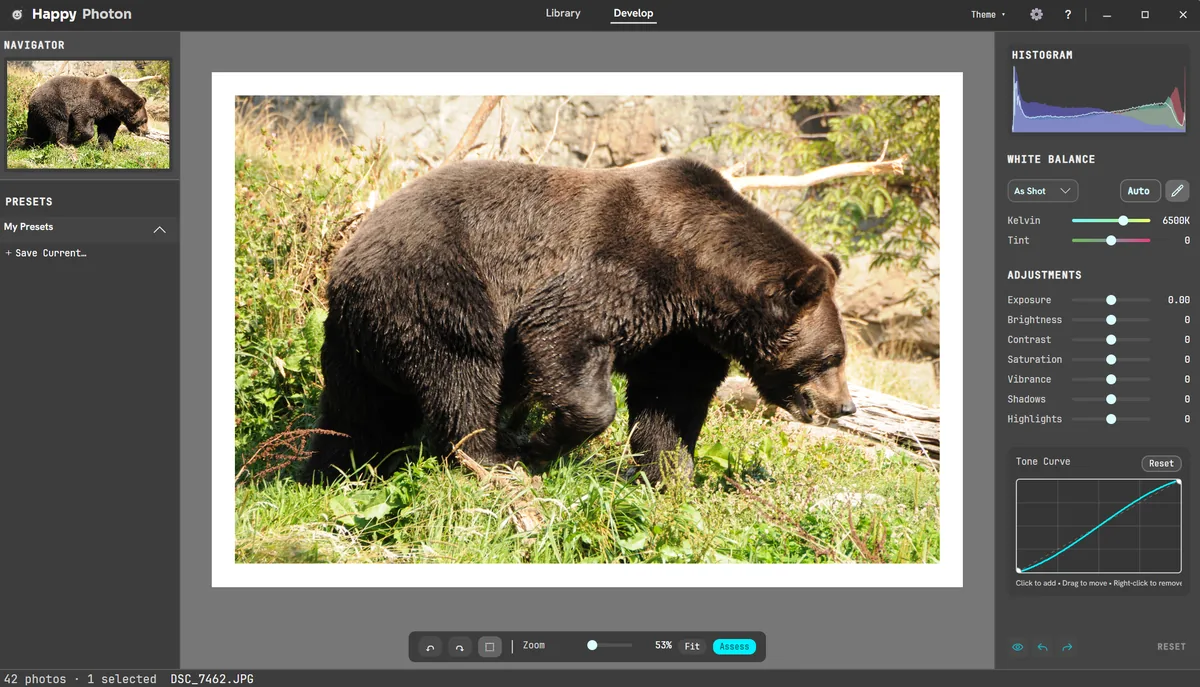
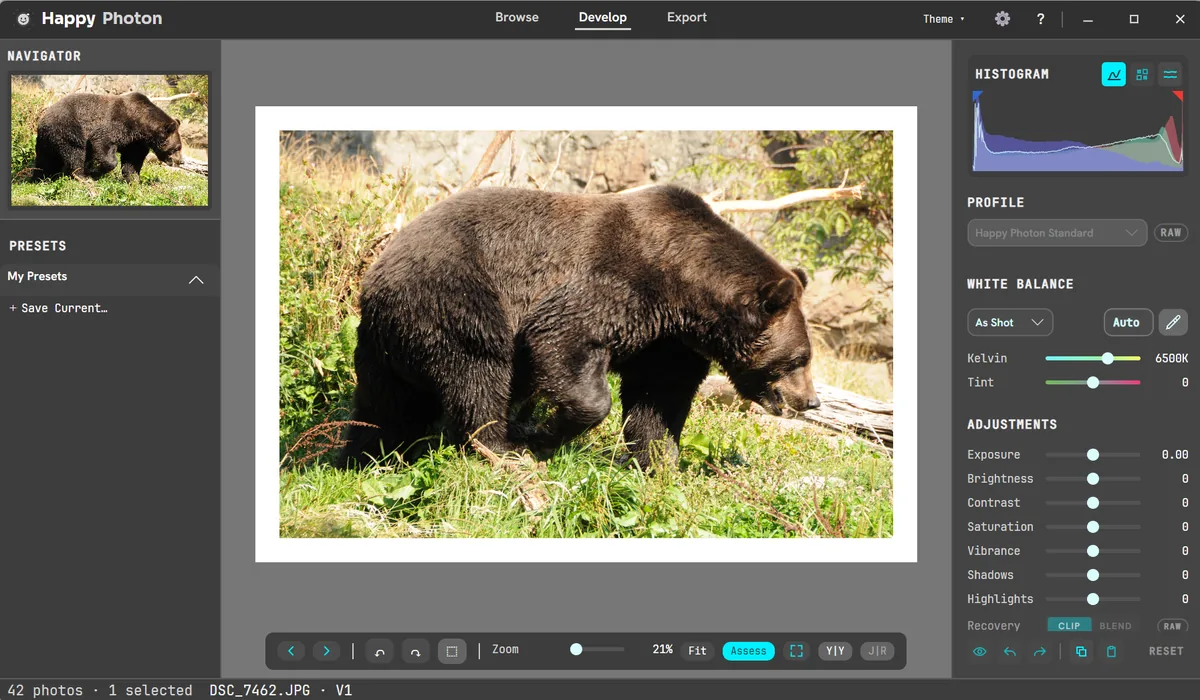
Showcase the 0.2.1 workspaces and features on the website

diff --git a/site/pages/pro-editing.html b/site/pages/pro-editing.html
@@ -32,7 +32,7 @@
         <div class="window-bar" aria-hidden="true"><span></span><span></span><span></span><b>DEVELOP</b></div>
         <picture>
           <source srcset="{{BASE_PATH}}assets/images/develop-720.webp 720w, {{BASE_PATH}}assets/images/develop-1200.webp 1200w, {{BASE_PATH}}assets/images/develop-1800.webp 1800w" sizes="(max-width: 900px) 94vw, 1240px" type="image/webp">
-          <img src="{{BASE_PATH}}assets/images/develop-1200.webp" width="1200" height="715" alt="Happy Photon Develop showing a photograph, presets, histogram, tone curve, and focused adjustment controls">
+          <img src="{{BASE_PATH}}assets/images/develop-1200.webp" width="1200" height="686" alt="Happy Photon Develop showing a photograph, presets, histogram, tone curve, and focused adjustment controls">
         </picture>
       </figure>
     </section>
@@ -54,7 +54,7 @@
       </div>
       <ol class="pro-pipeline">
         <li><span>01</span><b>Characterize</b><p>Measured as-shot white balance, built-in camera characterization, and DCP profiles when available.</p></li>
-        <li><span>02</span><b>Form the image</b><p>Highlight reconstruction and a scene-referred AgX tone engine shape RAW data without a baked-in picture style.</p></li>
+        <li><span>02</span><b>Form the image</b><p>Lens corrections, highlight reconstruction, and a scene-referred AgX tone engine shape RAW data without a baked-in picture style.</p></li>
         <li><span>03</span><b>Shape color</b><p>White balance, color mixer, saturation, and skin-aware vibrance operate through a wide-gamut perceptual color stage.</p></li>
         <li><span>04</span><b>Finish detail</b><p>Capture sharpening, noise reduction, output sharpening, vignette, and deterministic grain resolve at the right stage.</p></li>
         <li><span>05</span><b>Deliver</b><p>The result converts to an embedded sRGB or Display P3 profile and carries normalized metadata under your control.</p></li>
@@ -81,12 +81,12 @@
           <article class="pro-card">
             <span class="pro-card-index">DETAIL</span>
             <h3>Separate capture from delivery</h3>
-            <p>Apply source-aware capture sharpening, chroma noise reduction, and RAW noise reduction. Choose independent Screen or Print sharpening when you export.</p>
+            <p>Apply source-aware capture sharpening, wavelet luminance noise reduction, chroma noise reduction, and RAW noise reduction. Choose independent Screen or Print sharpening when you export.</p>
           </article>
           <article class="pro-card">
             <span class="pro-card-index">FINISH</span>
             <h3>Make the frame feel complete</h3>
-            <p>Crop, rotate, and straighten the horizon. Add a controlled vignette or deterministic monochrome grain that stays stable from preview to finished output.</p>
+            <p>Crop, rotate, straighten the horizon, and correct vertical and horizontal perspective against an alignment grid. Add a controlled vignette or deterministic monochrome grain that stays stable from preview to finished output.</p>
           </article>
         </div>
       </div>
@@ -96,13 +96,15 @@
       <div class="pro-scope-copy">
         <p class="eyebrow">MEASURE WHAT YOU SEE</p>
         <h2 id="scope-title">Scopes for decisions, <span>not decoration.</span></h2>
-        <p>Read the display histogram, luminance waveform, or RAW sensor histogram. Toggle highlight and shadow clipping, inspect before and after, zoom in device pixels, or enter Assess mode for an invariant mid-gray surround and white reference.</p>
+        <p>Read the display histogram, luminance waveform, or RAW sensor histogram. Toggle highlight and shadow clipping, inspect before and after in a synchronized split, press and hold for a 1:1 loupe, zoom in device pixels, or enter Assess mode for an invariant mid-gray surround and white reference.</p>
         <ul class="pro-chip-list" aria-label="Available viewing tools">
           <li>Display histogram</li>
           <li>Luminance waveform</li>
           <li>RAW sensor histogram</li>
           <li>Clipping overlays</li>
-          <li>Before / after</li>
+          <li>Before / after split</li>
+          <li>1:1 loupe</li>
+          <li>Side-by-side compare</li>
           <li>Assess mode</li>
         </ul>
       </div>
@@ -110,7 +112,7 @@
         <div class="window-bar" aria-hidden="true"><span></span><span></span><span></span><b>ASSESS</b></div>
         <picture>
           <source srcset="{{BASE_PATH}}assets/images/assess-720.webp 720w, {{BASE_PATH}}assets/images/assess-1200.webp 1200w, {{BASE_PATH}}assets/images/assess-1800.webp 1800w" sizes="(max-width: 980px) 94vw, 54vw" type="image/webp">
-          <img src="{{BASE_PATH}}assets/images/assess-1200.webp" width="1200" height="715" loading="lazy" alt="Happy Photon Assess mode showing a photograph against a stable mid-gray surround and white reference band">
+          <img src="{{BASE_PATH}}assets/images/assess-1200.webp" width="1200" height="700" loading="lazy" alt="Happy Photon Assess mode showing a bear photograph against a stable mid-gray surround and white reference border">
         </picture>
       </figure>
     </section>
@@ -120,12 +122,12 @@
         <div>
           <p class="eyebrow">RAW IS A FIRST-CLASS SOURCE</p>
           <h2 id="raw-title">Camera data gets a <span>photographic path.</span></h2>
-          <p>Happy Photon starts from the sensor and builds the image deliberately: measured as-shot white balance, highlight reconstruction, camera characterization, optional DCP profiles, and true monochrome RAW handling.</p>
+          <p>Happy Photon starts from the sensor and builds the image deliberately: measured as-shot white balance, highlight reconstruction, camera characterization, optional DCP profiles, database and embedded lens corrections, and true monochrome RAW handling.</p>
         </div>
         <ul class="pro-feature-list">
           <li><b>Scene-referred rendering</b><span>AgX maps RAW scene values into a display-ready photograph.</span></li>
           <li><b>Camera profiles</b><span>Use discovered DCP profiles when a compatible profile is available.</span></li>
-          <li><b>Embedded lens data</b><span>Apply qualified DNG and Fujifilm RAF lens corrections where supported.</span></li>
+          <li><b>Lens corrections</b><span>Apply embedded DNG and Fujifilm RAF prescriptions or an exact camera and lens match from the bundled Lensfun database.</span></li>
           <li><b>True monochrome</b><span>Keep monochrome sensor data neutral through preview and export.</span></li>
         </ul>
       </div>

diff --git a/site/pages/photo-editor-linux.html b/site/pages/photo-editor-linux.html
@@ -21,7 +21,7 @@
         <dl class="guide-facts" aria-label="Linux requirements">
           <div><dt>System</dt><dd>Linux desktop</dd></div>
           <div><dt>Architecture</dt><dd>x64</dd></div>
-          <div><dt>Package</dt><dd>Portable archive</dd></div>
+          <div><dt>Package</dt><dd>AppImage or portable archive</dd></div>
         </dl>
       </div>
     </section>
@@ -52,22 +52,22 @@
 
         <section id="install" aria-labelledby="install-title">
           <p class="eyebrow">INSTALL ON LINUX</p>
-          <h2 id="install-title">Run the portable x64 release</h2>
+          <h2 id="install-title">Run the x64 AppImage</h2>
           <ol class="numbered-steps">
-            <li><span>01</span><div><h3>Download the Linux archive</h3><p>Choose the current <code>linux-x64</code> archive from the verified GitHub release linked on the download page.</p></div></li>
-            <li><span>02</span><div><h3>Verify and extract it</h3><p>Compare the archive with <code>SHA256SUMS.txt</code>, then extract it to a folder you control.</p></div></li>
-            <li><span>03</span><div><h3>Run Happy Photon</h3><p>Launch the <code>HappyPhoton</code> executable and choose an existing folder of photographs. The release is portable rather than a native distribution package.</p></div></li>
+            <li><span>01</span><div><h3>Download the AppImage</h3><p>Choose the current x86_64 AppImage from the verified GitHub release linked on the download page, or the <code>linux-x64</code> archive if you prefer a plain folder.</p></div></li>
+            <li><span>02</span><div><h3>Verify and make it executable</h3><p>Compare the file with <code>SHA256SUMS.txt</code>, then mark the AppImage executable with <code>chmod +x</code>, or extract the archive to a folder you control.</p></div></li>
+            <li><span>03</span><div><h3>Run Happy Photon</h3><p>Launch the AppImage, or the <code>HappyPhoton</code> executable from the archive, and choose an existing folder of photographs. The AppImage runtime is statically linked, so no <code>libfuse2</code> package is needed; on a system without FUSE, run it with <code>--appimage-extract-and-run</code>.</p></div></li>
           </ol>
-          <aside class="notice-panel"><strong>Current packaging boundary.</strong><p>The initial Linux release does not provide native package-manager or desktop integration. The project publishes one verified x64 portable archive and invites specific compatibility reports.</p></aside>
+          <aside class="notice-panel"><strong>Current packaging boundary.</strong><p>Desktop integration is limited to the AppImage's own desktop entry and icon; there is no Flatpak or package-manager installation. The project invites specific compatibility reports.</p></aside>
         </section>
 
         <section id="workflow" aria-labelledby="workflow-guide-title">
           <p class="eyebrow">FOLDER TO EXPORT</p>
           <h2 id="workflow-guide-title">Finish a shoot in three decisions</h2>
           <div class="guide-step-grid">
-            <article><span>01</span><h3>Choose the keepers</h3><p>Browse the folder in place, group bursts, and use picks, rejects, ratings, color labels, and filters to find the strongest frames.</p></article>
-            <article><span>02</span><h3>Develop the photographs</h3><p>Crop, rotate, and adjust light, white balance, color, contrast, and tone without modifying the source file.</p></article>
-            <article><span>03</span><h3>Export what you need</h3><p>Create new JPEG, PNG, or WebP files in high-resolution, web, or smaller output sizes.</p></article>
+            <article><span>01</span><h3>Choose the keepers</h3><p>Browse the folder in place, compare candidates side by side, group bursts, and use picks, rejects, ratings, color labels, and filters to find the strongest frames.</p></article>
+            <article><span>02</span><h3>Develop the photographs</h3><p>Crop, straighten, correct perspective, and adjust light, white balance, color, contrast, tone, and detail without modifying the source file.</p></article>
+            <article><span>03</span><h3>Export what you need</h3><p>Proof the output, then create new JPEG, PNG, WebP, or 16-bit TIFF files in high-resolution, web, or smaller output sizes.</p></article>
           </div>
           <p><a class="text-link" href="{{REPOSITORY_URL}}/blob/main/docs/WORKFLOW.md">Follow the complete Happy Photon workflow <span aria-hidden="true">↗</span></a></p>
         </section>
@@ -97,7 +97,7 @@
           <h2 id="questions-title">Before you download</h2>
           <div class="faq-list">
             <details><summary>Is Happy Photon open source?</summary><p>Yes. Happy Photon is licensed GPL-3.0-or-later. The repository includes source code, build instructions, dependency notices, and the contribution process.</p></details>
-            <details><summary>Does the Linux release install system packages?</summary><p>No. The initial release is a portable archive, not a native package-manager installation.</p></details>
+            <details><summary>Does the Linux release install system packages?</summary><p>No. The AppImage and the portable archive run from wherever you put them; nothing is installed through a package manager.</p></details>
             <details><summary>Can I report my camera or distribution?</summary><p>Yes. Use the project’s GitHub issue forms for a reproducible compatibility failure and Discussions for broader workflow or packaging feedback.</p></details>
           </div>
         </section>

diff --git a/site/pages/photo-editor-macos.html b/site/pages/photo-editor-macos.html
@@ -26,12 +26,12 @@
       </div>
     </section>
 
-    <section class="guide-visual section-shell" aria-label="Happy Photon Library preview">
+    <section class="guide-visual section-shell" aria-label="Happy Photon Browse preview">
       <figure class="app-shot">
-        <div class="window-bar" aria-hidden="true"><span></span><span></span><span></span><b>LIBRARY · MACOS</b></div>
+        <div class="window-bar" aria-hidden="true"><span></span><span></span><span></span><b>BROWSE · MACOS</b></div>
         <picture>
-          <source srcset="{{BASE_PATH}}assets/images/library-720.webp 720w, {{BASE_PATH}}assets/images/library-1200.webp 1200w, {{BASE_PATH}}assets/images/library-1800.webp 1800w" sizes="(max-width: 760px) 94vw, (max-width: 1300px) 92vw, 1220px" type="image/webp">
-          <img src="{{BASE_PATH}}assets/images/library-1200.webp" width="1200" height="714" alt="Happy Photon Library on macOS showing wildlife thumbnails with folders, filters, color labels, flags, ratings, burst badges, and the review pane">
+          <source srcset="{{BASE_PATH}}assets/images/browse-720.webp 720w, {{BASE_PATH}}assets/images/browse-1200.webp 1200w, {{BASE_PATH}}assets/images/browse-1800.webp 1800w" sizes="(max-width: 760px) 94vw, (max-width: 1300px) 92vw, 1220px" type="image/webp">
+          <img src="{{BASE_PATH}}assets/images/browse-1200.webp" width="1200" height="687" alt="Happy Photon Browse on macOS showing wildlife thumbnails with folders, filters, color labels, flags, ratings, histogram, and capture metadata">
         </picture>
       </figure>
     </section>
@@ -64,9 +64,9 @@
           <p class="eyebrow">FOLDER TO EXPORT</p>
           <h2 id="workflow-guide-title">A complete workflow in three decisions</h2>
           <div class="guide-step-grid">
-            <article><span>01</span><h3>Choose the keepers</h3><p>Browse the shoot in place, group bursts, and use flags, ratings, color labels, and filters to concentrate on the strongest photographs.</p></article>
-            <article><span>02</span><h3>Develop the photographs</h3><p>Crop and rotate, then adjust light, white balance, color, contrast, and tone with focused global controls.</p></article>
-            <article><span>03</span><h3>Export finished copies</h3><p>Select the photographs you want and create JPEG, PNG, or WebP copies without changing the originals.</p></article>
+            <article><span>01</span><h3>Choose the keepers</h3><p>Browse the shoot in place, compare candidates side by side, group bursts, and use flags, ratings, color labels, and filters to concentrate on the strongest photographs.</p></article>
+            <article><span>02</span><h3>Develop the photographs</h3><p>Crop, straighten, and correct perspective, then adjust light, white balance, color, contrast, tone, and detail with focused global controls.</p></article>
+            <article><span>03</span><h3>Export finished copies</h3><p>Select the photographs you want, proof the output, and create JPEG, PNG, WebP, or 16-bit TIFF copies without changing the originals.</p></article>
           </div>
           <p><a class="text-link" href="{{REPOSITORY_URL}}/blob/main/docs/WORKFLOW.md">Follow the complete Happy Photon workflow <span aria-hidden="true">↗</span></a></p>
         </section>
@@ -113,7 +113,7 @@
       <div class="section-shell">
         <p class="eyebrow">RELATED GUIDES</p>
         <h2 id="related-title">Continue with Happy Photon</h2>
-        <div class="related-guide-links"><a href="{{BASE_PATH}}photo-editor-windows/"><b>Windows guide</b><span>Windows 10 1809+ · x64</span></a><a href="{{BASE_PATH}}photo-editor-linux/"><b>Linux guide</b><span>Portable x64 archive</span></a><a href="{{BASE_PATH}}import-from-lightroom/"><b>Import from Lightroom</b><span>Ratings, flags, and color labels</span></a></div>
+        <div class="related-guide-links"><a href="{{BASE_PATH}}photo-editor-windows/"><b>Windows guide</b><span>Windows 10 1809+ · x64</span></a><a href="{{BASE_PATH}}photo-editor-linux/"><b>Linux guide</b><span>AppImage · x64</span></a><a href="{{BASE_PATH}}import-from-lightroom/"><b>Import from Lightroom</b><span>Ratings, flags, and color labels</span></a></div>
       </div>
     </section>
   </main>

diff --git a/site/pages/photo-editor-windows.html b/site/pages/photo-editor-windows.html
@@ -26,12 +26,12 @@
       </div>
     </section>
 
-    <section class="guide-visual section-shell" aria-label="Happy Photon Library preview">
+    <section class="guide-visual section-shell" aria-label="Happy Photon Browse preview">
       <figure class="app-shot">
-        <div class="window-bar" aria-hidden="true"><span></span><span></span><span></span><b>LIBRARY · WINDOWS</b></div>
+        <div class="window-bar" aria-hidden="true"><span></span><span></span><span></span><b>BROWSE · WINDOWS</b></div>
         <picture>
-          <source srcset="{{BASE_PATH}}assets/images/library-720.webp 720w, {{BASE_PATH}}assets/images/library-1200.webp 1200w, {{BASE_PATH}}assets/images/library-1800.webp 1800w" sizes="(max-width: 760px) 94vw, (max-width: 1300px) 92vw, 1220px" type="image/webp">
-          <img src="{{BASE_PATH}}assets/images/library-1200.webp" width="1200" height="714" alt="Happy Photon Library on Windows showing wildlife thumbnails with filters, color labels, flags, ratings, burst badges, and the review pane">
+          <source srcset="{{BASE_PATH}}assets/images/browse-720.webp 720w, {{BASE_PATH}}assets/images/browse-1200.webp 1200w, {{BASE_PATH}}assets/images/browse-1800.webp 1800w" sizes="(max-width: 760px) 94vw, (max-width: 1300px) 92vw, 1220px" type="image/webp">
+          <img src="{{BASE_PATH}}assets/images/browse-1200.webp" width="1200" height="687" alt="Happy Photon Browse on Windows showing wildlife thumbnails with filters, color labels, flags, ratings, histogram, and capture metadata">
         </picture>
       </figure>
     </section>
@@ -64,9 +64,9 @@
           <p class="eyebrow">FOLDER TO EXPORT</p>
           <h2 id="workflow-guide-title">Three decisions finish a shoot</h2>
           <div class="guide-step-grid">
-            <article><span>01</span><h3>Choose the keepers</h3><p>Use flags, star ratings, color labels, filters, and burst grouping to reduce a folder to the photographs that matter.</p></article>
-            <article><span>02</span><h3>Develop the photographs</h3><p>Crop and rotate, then shape exposure, highlights, shadows, white balance, color, and tone.</p></article>
-            <article><span>03</span><h3>Export finished copies</h3><p>Select the finished photographs and create JPEG, PNG, or WebP copies at the size you need.</p></article>
+            <article><span>01</span><h3>Choose the keepers</h3><p>Compare candidates side by side, then use flags, star ratings, color labels, filters, and burst grouping to reduce a folder to the photographs that matter.</p></article>
+            <article><span>02</span><h3>Develop the photographs</h3><p>Crop, straighten, and correct perspective, then shape exposure, highlights, shadows, white balance, color, tone, and detail.</p></article>
+            <article><span>03</span><h3>Export finished copies</h3><p>Select the finished photographs, proof the output, and create JPEG, PNG, WebP, or 16-bit TIFF copies at the size you need.</p></article>
           </div>
           <p><a class="text-link" href="{{REPOSITORY_URL}}/blob/main/docs/WORKFLOW.md">Follow the complete Happy Photon workflow <span aria-hidden="true">↗</span></a></p>
         </section>
@@ -114,7 +114,7 @@
       <div class="section-shell">
         <p class="eyebrow">RELATED GUIDES</p>
         <h2 id="related-title">Continue with Happy Photon</h2>
-        <div class="related-guide-links"><a href="{{BASE_PATH}}photo-editor-linux/"><b>Linux guide</b><span>Portable x64 archive</span></a><a href="{{BASE_PATH}}photo-editor-macos/"><b>macOS guide</b><span>Apple Silicon · macOS 14+</span></a><a href="{{BASE_PATH}}import-from-lightroom/"><b>Import from Lightroom</b><span>Ratings, flags, and color labels</span></a></div>
+        <div class="related-guide-links"><a href="{{BASE_PATH}}photo-editor-linux/"><b>Linux guide</b><span>AppImage · x64</span></a><a href="{{BASE_PATH}}photo-editor-macos/"><b>macOS guide</b><span>Apple Silicon · macOS 14+</span></a><a href="{{BASE_PATH}}import-from-lightroom/"><b>Import from Lightroom</b><span>Ratings, flags, and color labels</span></a></div>
       </div>
     </section>
   </main>

diff --git a/site/partials/home/updates-strip.html b/site/partials/home/updates-strip.html
@@ -1,21 +1,21 @@
 <section class="section updates-section" aria-labelledby="updates-title">
   <div class="section-shell updates-grid">
     <div class="updates-copy">
-      <p class="eyebrow">A MORE CONNECTED REVIEW WORKFLOW</p>
-      <h2 id="updates-title">Bring your decisions with you. <span>Judge each frame clearly.</span></h2>
+      <p class="eyebrow">NEW IN HAPPY PHOTON 0.2.1</p>
+      <h2 id="updates-title">Judge more clearly. <span>Deliver more precisely.</span></h2>
       <div class="updates-list">
-        <article><h3>Coming from Lightroom Classic?</h3><p>An optional import brings your ratings, pick and reject flags, and color labels over from a local catalog. Opt-in XMP sidecars exchange assessments with standard Adobe metadata.</p><a class="text-link" href="{{BASE_PATH}}import-from-lightroom/">Read the Lightroom import guide <span aria-hidden="true">→</span></a></article>
-        <article><h3>Review around the selection</h3><p>Use selection-aware Library actions, a dedicated review pane, and selection-only full screen to compare the photographs that matter.</p></article>
-        <article><h3>Assess color on neutral ground</h3><p>Choose the Middle Gray theme, then enter color assessment mode for a stable mid-gray surround and white reference.</p></article>
-        <article><h3>Keep cloud originals in your control</h3><p>Background work never silently downloads online-only originals. A clearly scoped action asks before source content is needed.</p></article>
+        <article><h3>An Export workspace</h3><p>Export is a full workspace beside Browse and Develop: a filmstrip of the selected captures, a preview that proofs the output pixels, and a queue that keeps running while you move on.</p></article>
+        <article><h3>RAW + JPEG as one capture</h3><p>Turn on J+R to fold a same-name pair into one tile that is flagged, rated, and labeled together. In Develop, J|R switches between the camera JPEG and the RAW without losing your place.</p></article>
+        <article><h3>Versions, compare, and before/after</h3><p>Keep up to eight interpretations of one file. Compare two to four photos side by side in Browse, split before and after in Develop, and press and hold for an instant 1:1 loupe—all synchronized.</p></article>
+        <article><h3>Lens corrections from a real database</h3><p>RAW files matched in the bundled Lensfun database receive distortion, chromatic aberration, and vignetting corrections alongside embedded prescriptions. Nikon lens identities are recovered from maker notes.</p></article>
       </div>
-      <p class="updates-polish">A compact filter bar and S/M/L thumbnails make Library denser, while clearer focus, selection, activity, and update-check feedback keep the workflow predictable.</p>
+      <p class="updates-polish">Also new: vertical and horizontal perspective with an alignment grid, wavelet luminance noise reduction, right-click copy path, reveal, and delete in Browse, a Linux AppImage, and a visible control for every keyboard shortcut.</p>
     </div>
     <figure class="app-shot updates-shot">
       <div class="window-bar" aria-hidden="true"><span></span><span></span><span></span><b>COLOR ASSESSMENT</b></div>
       <picture>
         <source srcset="{{BASE_PATH}}assets/images/assess-720.webp 720w, {{BASE_PATH}}assets/images/assess-1200.webp 1200w, {{BASE_PATH}}assets/images/assess-1800.webp 1800w" sizes="(max-width: 980px) 94vw, 52vw" type="image/webp">
-        <img src="{{BASE_PATH}}assets/images/assess-1200.webp" width="1200" height="687" loading="lazy" alt="Happy Photon Develop in Middle Gray with color assessment mode surrounding a bear photograph with neutral gray and a white reference band">
+        <img src="{{BASE_PATH}}assets/images/assess-1200.webp" width="1200" height="700" loading="lazy" alt="Happy Photon Develop in Middle Gray with Assess mode surrounding a bear photograph with neutral gray and a white reference border">
       </picture>
     </figure>
   </div>

diff --git a/site/partials/home/features.html b/site/partials/home/features.html
@@ -1,21 +1,22 @@
 <section id="features" class="section section-shell feature-section" aria-labelledby="features-title">
   <div class="feature-copy">
-    <p class="eyebrow">FOCUSED TOOLS, CLEAR INTENT</p>
+    <p class="eyebrow">FOR BEGINNERS AND PROS ALIKE</p>
     <h2 id="features-title">Everything the photograph needs. <span>Nothing it doesn’t.</span></h2>
+    <p class="feature-intro">Whether you are opening your first camera folder or graduating from a heavyweight workflow, the same focused controls carry a shoot from card to finished file—and a serious image engine sits underneath when you want to push a photograph.</p>
     <ul class="feature-list">
       <li><b>Browse in place</b><span>Open JPEG and RAW shoots without an import step.</span></li>
-      <li><b>Make the cut</b><span>Compare in the review pane, pick, reject, rate, add native color labels, filter, and group bursts.</span></li>
-      <li><b>Shape the image</b><span>Edit composition, white balance, light, color, and tone.</span></li>
-      <li><b>Keep a series coherent</b><span>Reuse looks with presets and copy/paste.</span></li>
-      <li><b>Export safely</b><span>Create new files without overwriting loaded originals.</span></li>
+      <li><b>Make the cut</b><span>Compare up to four photos side by side, pick, reject, rate, add color labels, filter, group bursts, and treat a RAW + JPEG pair as one capture.</span></li>
+      <li><b>Shape the image</b><span>Edit composition, perspective, white balance, light, color, tone, and detail, with lens corrections for RAW.</span></li>
+      <li><b>Keep a series coherent</b><span>Reuse looks with presets and copy/paste, and keep up to eight versions of one file.</span></li>
+      <li><b>Export safely</b><span>Proof the output in the Export workspace and create new files without overwriting loaded originals.</span></li>
     </ul>
-    <a class="text-link" href="{{BASE_PATH}}pro-editing/">Explore the pro editing pipeline <span aria-hidden="true">→</span></a>
+    <a class="text-link" href="{{BASE_PATH}}pro-editing/">See what makes pros happy: the editing pipeline <span aria-hidden="true">→</span></a>
   </div>
   <figure class="app-shot feature-shot">
     <div class="window-bar" aria-hidden="true"><span></span><span></span><span></span><b>DEVELOP</b></div>
     <picture>
       <source srcset="{{BASE_PATH}}assets/images/develop-720.webp 720w, {{BASE_PATH}}assets/images/develop-1200.webp 1200w, {{BASE_PATH}}assets/images/develop-1800.webp 1800w" sizes="(max-width: 900px) 94vw, 56vw" type="image/webp">
-      <img src="{{BASE_PATH}}assets/images/develop-1200.webp" width="1200" height="715" loading="lazy" alt="Happy Photon Develop showing a bear photograph with presets, histogram, tone curve, and focused adjustment controls">
+      <img src="{{BASE_PATH}}assets/images/develop-1200.webp" width="1200" height="686" loading="lazy" alt="Happy Photon Develop showing a bear photograph with presets, histogram, tone curve, and focused adjustment controls">
     </picture>
   </figure>
 </section>

diff --git a/site/partials/home/hero.html b/site/partials/home/hero.html
@@ -4,10 +4,10 @@
   <div class="hero-copy">
     <p class="eyebrow">OPEN-SOURCE DESKTOP PHOTO WORKFLOW</p>
     <h1 id="hero-title">Photo editing,<br><span>simplified.</span></h1>
-    <p class="hero-summary">Browse a shoot, develop the keepers, and export the copies you need. Happy Photon keeps your originals untouched and your catalog local—without an account or subscription.</p>
+    <p class="hero-summary">Simple enough for your first camera. Serious enough for a working pro. Browse a shoot, develop the keepers, and export the copies you need—on a wide-gamut RAW pipeline that stays out of your way, with no account and no subscription.</p>
     <div class="button-row hero-actions">
       <a class="button button-primary" href="{{BASE_PATH}}download/" data-download-action>See release availability</a>
-      <a class="button button-secondary" href="{{REPOSITORY_URL}}" rel="noopener noreferrer">View on GitHub <span aria-hidden="true">↗</span></a>
+      <a class="button button-secondary" href="{{BASE_PATH}}pro-editing/">See the pro pipeline <span aria-hidden="true">→</span></a>
     </div>
     <div class="release-line">
       <span class="status-dot" aria-hidden="true"></span>
@@ -17,10 +17,10 @@
     </div>
   </div>
   <figure class="app-shot app-shot-hero">
-    <div class="window-bar" aria-hidden="true"><span></span><span></span><span></span><b>LIBRARY</b></div>
+    <div class="window-bar" aria-hidden="true"><span></span><span></span><span></span><b>BROWSE</b></div>
     <picture>
-      <source srcset="{{BASE_PATH}}assets/images/library-720.webp 720w, {{BASE_PATH}}assets/images/library-1200.webp 1200w, {{BASE_PATH}}assets/images/library-1800.webp 1800w" sizes="(max-width: 760px) 94vw, (max-width: 1300px) 92vw, 1220px" type="image/webp">
-      <img src="{{BASE_PATH}}assets/images/library-1200.webp" width="1200" height="714" alt="Happy Photon Library showing wildlife thumbnails with color labels, flags, star ratings, burst badges, filters, and the review pane">
+      <source srcset="{{BASE_PATH}}assets/images/browse-720.webp 720w, {{BASE_PATH}}assets/images/browse-1200.webp 1200w, {{BASE_PATH}}assets/images/browse-1800.webp 1800w" sizes="(max-width: 760px) 94vw, (max-width: 1300px) 92vw, 1220px" type="image/webp">
+      <img src="{{BASE_PATH}}assets/images/browse-1200.webp" width="1200" height="687" alt="Happy Photon Browse showing wildlife thumbnails with flags, star ratings, color labels, the filter bar, histogram, and capture metadata">
     </picture>
   </figure>
 </section>

diff --git a/site/partials/home/workflow.html b/site/partials/home/workflow.html
@@ -8,20 +8,20 @@
     <li class="workflow-card">
       <span class="step-number">01</span>
       <h3>Choose the keepers</h3>
-      <p>Browse in place. Use flags, ratings, filters, and burst grouping to narrow a shoot quickly.</p>
-      <span class="card-detail">PICK · REJECT · RATE</span>
+      <p>Browse in place. Compare candidates side by side and use flags, ratings, filters, and burst grouping to narrow a shoot quickly.</p>
+      <span class="card-detail">COMPARE · PICK · RATE</span>
     </li>
     <li class="workflow-card featured-card">
       <span class="step-number">02</span>
       <h3>Develop the photographs</h3>
-      <p>Crop, rotate, and shape light, color, and tone with focused non-destructive controls.</p>
+      <p>Crop, straighten, correct perspective, and shape light, color, tone, and detail with focused non-destructive controls.</p>
       <span class="card-detail">COMPOSE · LIGHT · COLOR</span>
     </li>
     <li class="workflow-card">
       <span class="step-number">03</span>
       <h3>Export what you need</h3>
-      <p>Create JPEG, PNG, or WebP copies in the sizes you need—without changing the originals.</p>
-      <span class="card-detail">SELECT · SIZE · EXPORT</span>
+      <p>Proof the result, then create JPEG, PNG, WebP, or 16-bit TIFF copies in the sizes you need—without changing the originals.</p>
+      <span class="card-detail">SELECT · PROOF · EXPORT</span>
     </li>
   </ol>
   <p class="centered-action"><a class="text-link" href="{{REPOSITORY_URL}}/blob/main/docs/WORKFLOW.md">Read the complete workflow <span aria-hidden="true">→</span></a></p>

diff --git a/site/pages/import-from-lightroom.html b/site/pages/import-from-lightroom.html
@@ -97,7 +97,7 @@
       <div class="section-shell">
         <p class="eyebrow">INSTALLATION GUIDES</p>
         <h2 id="related-title">Start on your platform</h2>
-        <div class="related-guide-links"><a href="{{BASE_PATH}}photo-editor-windows/"><b>Windows guide</b><span>Windows 10 1809+ · x64</span></a><a href="{{BASE_PATH}}photo-editor-macos/"><b>macOS guide</b><span>Apple Silicon · macOS 14+</span></a><a href="{{BASE_PATH}}photo-editor-linux/"><b>Linux guide</b><span>Portable x64 archive</span></a></div>
+        <div class="related-guide-links"><a href="{{BASE_PATH}}photo-editor-windows/"><b>Windows guide</b><span>Windows 10 1809+ · x64</span></a><a href="{{BASE_PATH}}photo-editor-macos/"><b>macOS guide</b><span>Apple Silicon · macOS 14+</span></a><a href="{{BASE_PATH}}photo-editor-linux/"><b>Linux guide</b><span>AppImage · x64</span></a></div>
       </div>
     </section>
   </main>

diff --git a/site/partials/home/final-callout.html b/site/partials/home/final-callout.html
@@ -2,7 +2,7 @@
   <div class="section-shell final-inner">
     <p class="eyebrow">READY FOR LAUNCH</p>
     <h2 id="final-title">Your next shoot,<br><span>without the overhead.</span></h2>
-    <p>Happy Photon is available now from the Microsoft Store, with a signed macOS release and Linux archive available from GitHub.</p>
+    <p>Happy Photon is available now from the Microsoft Store, with a signed macOS release and a Linux AppImage available from GitHub.</p>
     <div class="button-row">
       <a class="button button-primary" href="{{BASE_PATH}}download/" data-download-action>See release availability</a>
       <a class="button button-secondary" href="{{RELEASES_URL}}">Follow releases <span aria-hidden="true">↗</span></a>

diff --git a/site/partials/download/platforms.html b/site/partials/download/platforms.html
@@ -26,7 +26,7 @@
     <article id="linux" class="platform-card" data-platform-card="linux">
       <div class="platform-card-top"><span class="platform-icon" aria-hidden="true">⌁</span><span class="status-chip {{LINUX_STATUS_CLASS}}" data-platform-status>{{LINUX_STATUS}}</span></div>
       <h3>Linux</h3>
-      <p class="platform-spec">x64 · Portable archive</p>
+      <p class="platform-spec">x64 · AppImage or archive</p>
       <p data-platform-detail>{{LINUX_DETAIL}}</p>
       <span class="availability-note" data-platform-note>{{LINUX_NOTE}}</span>
       <a class="button button-primary platform-action" href="{{LINUX_ACTION_URL}}" data-platform-action {{LINUX_ACTION_STATE}}>{{LINUX_ACTION_LABEL}}</a>

diff --git a/site/partials/shared/head-site.html b/site/partials/shared/head-site.html
@@ -11,7 +11,7 @@
 <meta data-production-only property="og:image" content="{{SOCIAL_CARD_URL}}">
 <meta data-production-only property="og:image:width" content="1200">
 <meta data-production-only property="og:image:height" content="630">
-<meta data-production-only property="og:image:alt" content="Happy Photon Library and the words Photo editing, simplified.">
+<meta data-production-only property="og:image:alt" content="Happy Photon and the words Photo editing, simplified.">
 <meta data-production-only name="twitter:card" content="summary_large_image">
 <meta data-production-only name="twitter:title" content="{{PAGE_TITLE}}">
 <meta data-production-only name="twitter:description" content="{{PAGE_DESCRIPTION}}">
